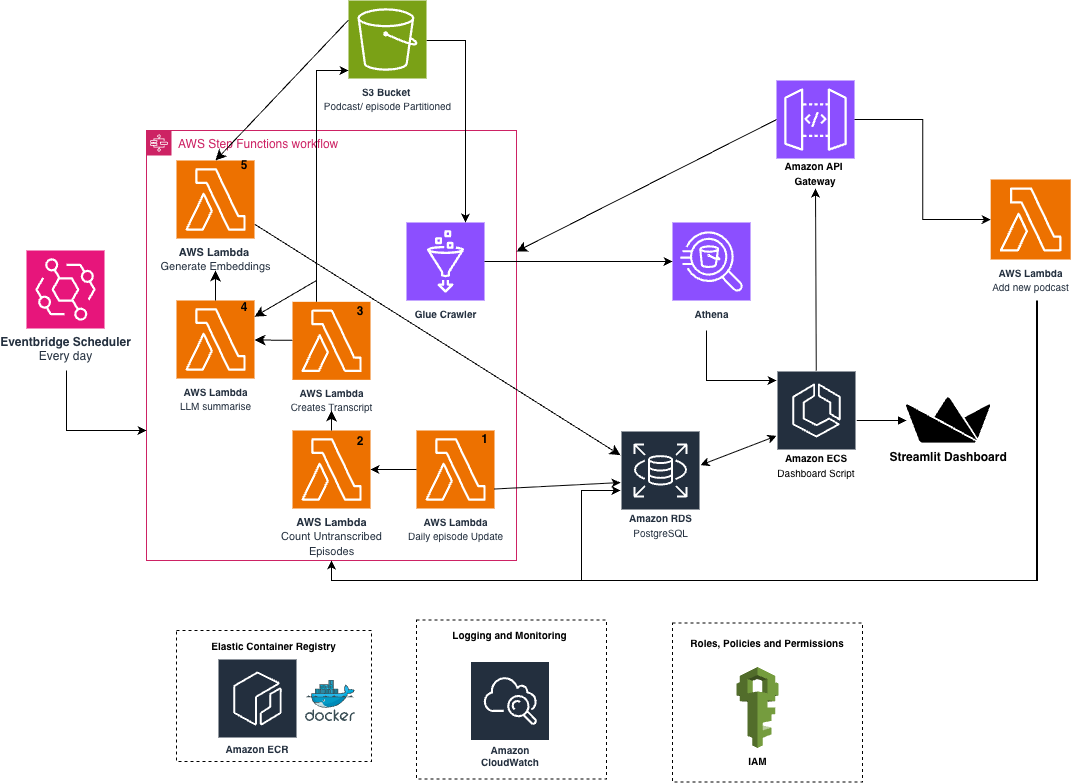
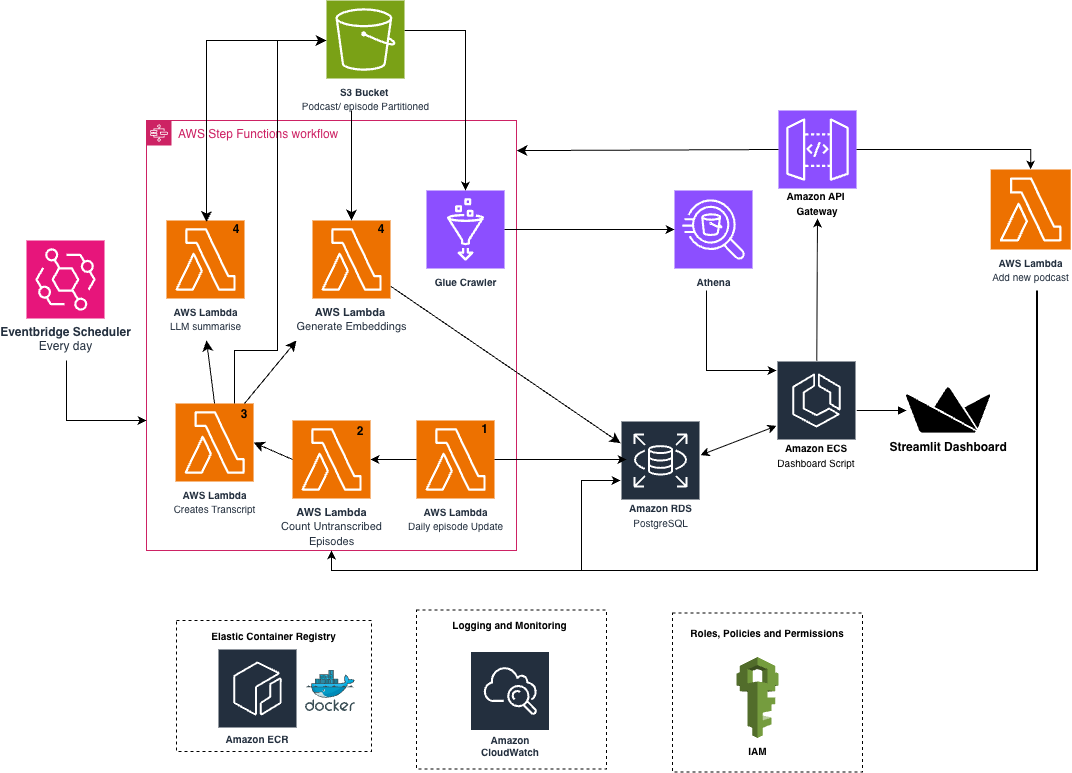
updated architecture diagram for parallel lambda no4s

diff --git a/daily_pipeline/test_transform_episodes.py b/daily_pipeline/test_transform_episodes.py
@@ -141,7 +141,8 @@ class TestExtractAudioUrlFromLinks:
         """Test that enclosure link is correctly identified"""
         links = [
             {'rel': 'alternate', 'href': 'https://example.com/page'},
-            {'rel': 'enclosure', 'href': 'https://example.com/audio.mp3', 'type': 'audio/mpeg'},
+            {'rel': 'enclosure', 'href': 'https://example.com/audio.mp3',
+                'type': 'audio/mpeg'},
         ]
         result = extract_audio_url_from_links(links)
         assert result == 'https://example.com/audio.mp3'
